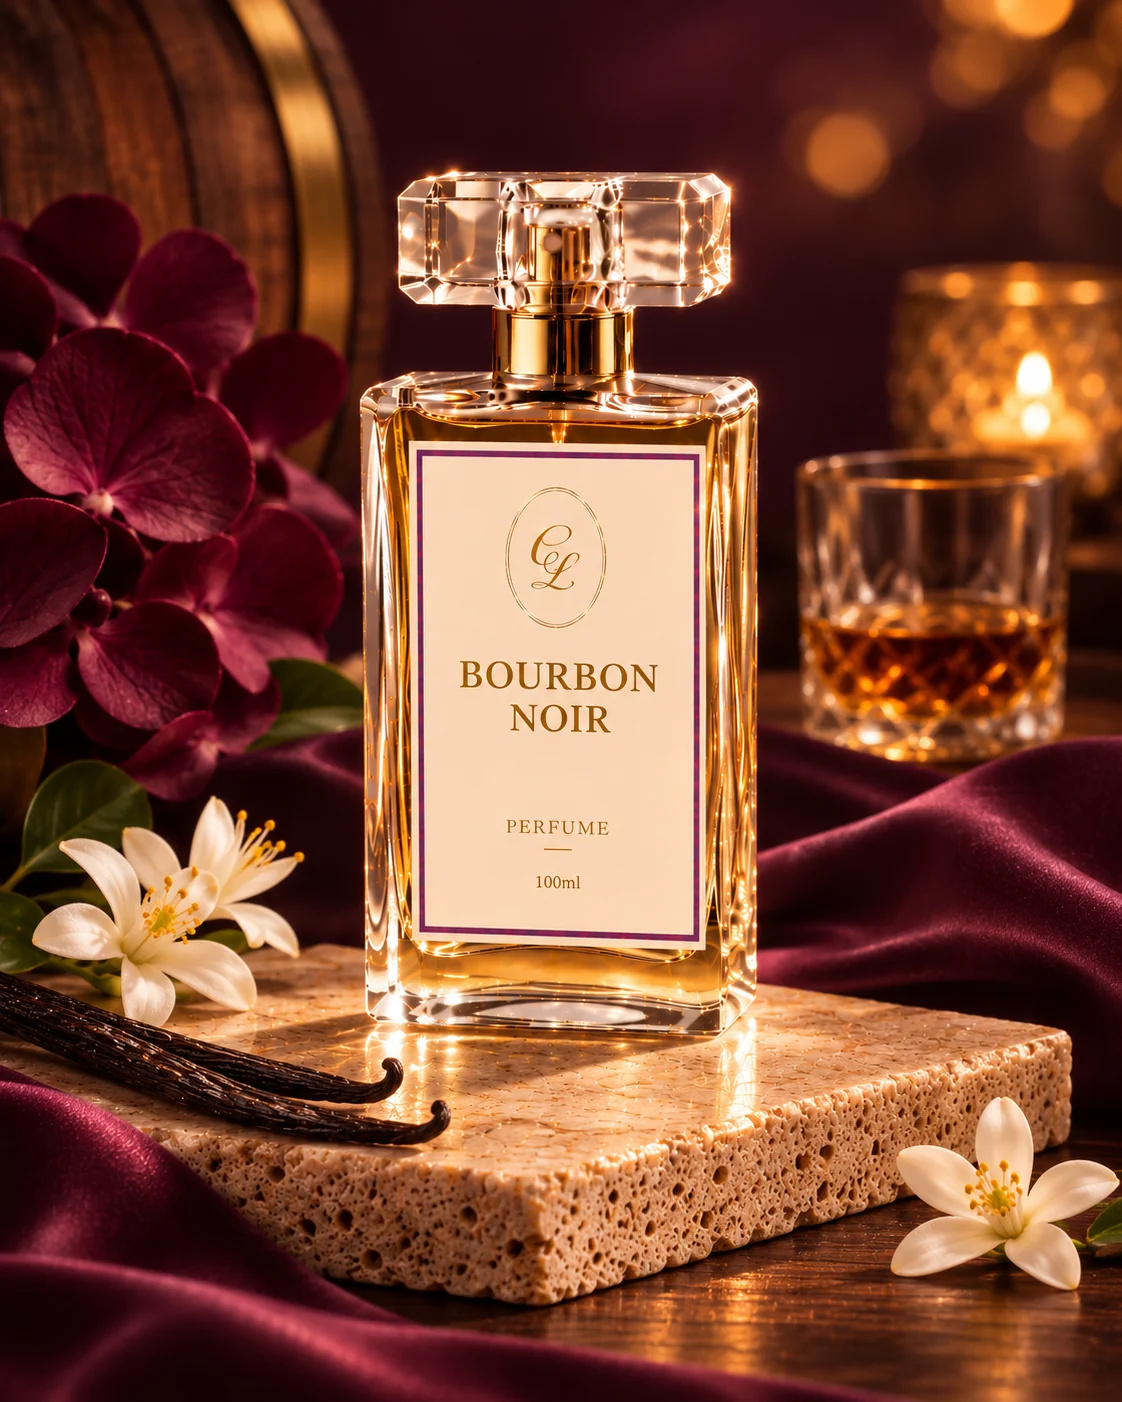
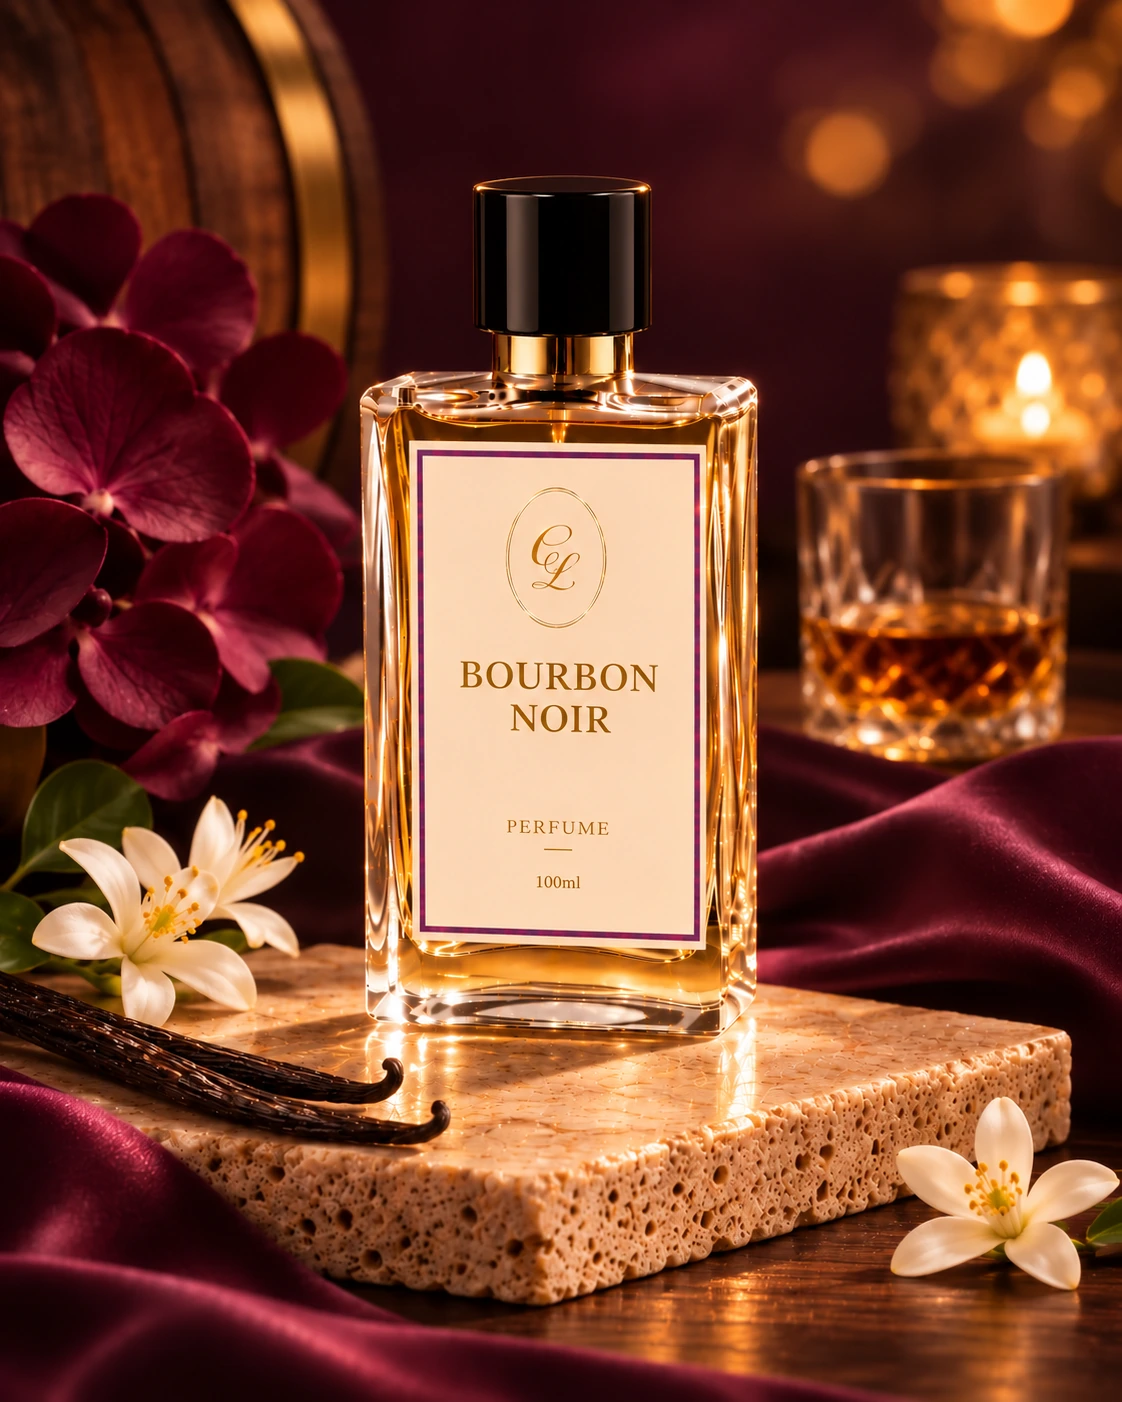
fix(catalog): update masculine perfume caps

diff --git a/tests/e2e/aura-rubbra.spec.ts b/tests/e2e/aura-rubbra.spec.ts
@@ -6,6 +6,11 @@ test("new fragrance and corrected genders appear in the catalog", async ({ page 
   await expect(cards).toHaveCount(2);
   await expect(cards.filter({ hasText: "Imperator" })).toBeVisible();
   await expect(cards.filter({ hasText: "Bourbon Noir" })).toBeVisible();
+  for (const name of ["Imperator", "Bourbon Noir"]) {
+    const photo = cards.filter({ hasText: name }).getByRole("img", { name: `Frasco do perfume ${name}` });
+    await expect(photo).toBeVisible();
+    await expect.poll(() => photo.evaluate((el: HTMLImageElement) => el.naturalWidth)).toBeGreaterThan(0);
+  }
   await page.goto("/produtos/imperator/");
   await expect(page.locator(".detail-copy")).toContainText("Masculino");
   await expect(page.locator(".detail-copy")).not.toContainText("Compartilhável");

diff --git a/docs/catalog-data.md b/docs/catalog-data.md
@@ -2,7 +2,7 @@
 
 Fonte atual: `src/features/catalog/data/products.json`. Uma lista JSON UTF-8, com um objeto por produto. A ordem no arquivo não indica destaque ou popularidade. IDs e slugs são identificadores técnicos, não SKUs oficiais.
 
-O catálogo contém 47 perfumes: 46 conciliados com o XLSX comercial e Aura Rubbra cadastrado a partir do descritivo fornecido. As fotos de Imperator e Bourbon Noir ainda precisam da tampa cilíndrica preta; a imagem de Aura Rubbra foi gerada por IA e aprovada pelo responsável. Veja o [mapeamento das dez colunas e as pendências](catalog-workbook-merge.md). `gender` registra masculino, feminino ou compartilhável; `style` e `suggestedUse` complementam o perfil exibido na página. `sourceRecord` preserva número, nome, gênero, tipo/volume e perfil originais para rastreabilidade.
+O catálogo contém 47 perfumes: 46 conciliados com o XLSX comercial e Aura Rubbra cadastrado a partir do descritivo fornecido. As imagens de Imperator e Bourbon Noir foram editadas por IA para apresentar tampa cilíndrica preta; a imagem de Aura Rubbra foi gerada por IA e aprovada pelo responsável. Veja o [mapeamento das dez colunas e as pendências](catalog-workbook-merge.md). `gender` registra masculino, feminino ou compartilhável; `style` e `suggestedUse` complementam o perfil exibido na página. `sourceRecord` preserva número, nome, gênero, tipo/volume e perfil originais para rastreabilidade.
 
 | Campo          | Formato                                              | Regra                                                                                                                                                                                |
 | -------------- | ---------------------------------------------------- | ------------------------------------------------------------------------------------------------------------------------------------------------------------------------------------ |
